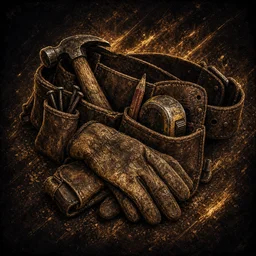
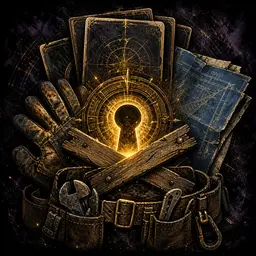
updated destiny images. (#108)

diff --git a/src/game/data/assetManifest.ts b/src/game/data/assetManifest.ts
@@ -54,10 +54,15 @@ import unlockHandSizePerActUrl from "../assets/unlocks/hand-size-per-act.webp";
 import unlockKeywordBonusUrl from "../assets/unlocks/keyword-bonus.webp";
 import unlockMinEnergyUrl from "../assets/unlocks/min-energy.webp";
 import unlockMinLightUrl from "../assets/unlocks/min-light.webp";
+import unlockOtherSprintFreeUrl from "../assets/unlocks/other-sprint-free.webp";
 import unlockPanicResponseUrl from "../assets/unlocks/panic-response.webp";
+import unlockRarityBonusUrl from "../assets/unlocks/rarity-bonus.webp";
 import unlockSecondExplorePushUrl from "../assets/unlocks/second-explore-push.webp";
+import unlockStarterArchivistUrl from "../assets/unlocks/starter-archivist.webp";
 import unlockStarterContractorUrl from "../assets/unlocks/starter-contractor.webp";
 import unlockStarterFootballerUrl from "../assets/unlocks/starter-footballer.webp";
+import unlockStarterHarvesterUrl from "../assets/unlocks/starter-harvester.webp";
+import unlockStarterSurveyorUrl from "../assets/unlocks/starter-surveyor.webp";
 import unlockStrongBarricadesUrl from "../assets/unlocks/strong-barricades.webp";
 import unlockWorldFogBeachPartyUrl from "../assets/unlocks/world-fog-beach-party.webp";
 import unlockWorldWhiteoutParkingGarageUrl from "../assets/unlocks/world-whiteout-parking-garage.webp";
@@ -137,10 +142,15 @@ export const assetManifest: Record<string, string> = {
   "unlock/keyword-bonus": unlockKeywordBonusUrl,
   "unlock/min-energy": unlockMinEnergyUrl,
   "unlock/min-light": unlockMinLightUrl,
+  "unlock/other-sprint-free": unlockOtherSprintFreeUrl,
   "unlock/panic-response": unlockPanicResponseUrl,
+  "unlock/rarity-bonus": unlockRarityBonusUrl,
   "unlock/second-explore-push": unlockSecondExplorePushUrl,
+  "unlock/starter-archivist": unlockStarterArchivistUrl,
   "unlock/starter-contractor": unlockStarterContractorUrl,
   "unlock/starter-footballer": unlockStarterFootballerUrl,
+  "unlock/starter-harvester": unlockStarterHarvesterUrl,
+  "unlock/starter-surveyor": unlockStarterSurveyorUrl,
   "unlock/strong-barricades": unlockStrongBarricadesUrl,
   "unlock/world-fog-beach-party": unlockWorldFogBeachPartyUrl,
   "unlock/world-whiteout-parking-garage": unlockWorldWhiteoutParkingGarageUrl,

diff --git a/src/game/tests/unlockAssetBindings.test.ts b/src/game/tests/unlockAssetBindings.test.ts
@@ -1,0 +1,13 @@
+import { describe, expect, it } from "bun:test";
+import { UNLOCK_CATALOG } from "../../data/unlocks/catalog";
+import { assetManifest } from "../data/assetManifest";
+
+describe("unlock asset bindings", () => {
+  it("binds every catalog unlock icon in assetManifest", () => {
+    const missing = UNLOCK_CATALOG.map((def) => `unlock/${def.id}`).filter(
+      (key) => !(key in assetManifest),
+    );
+
+    expect(missing).toEqual([]);
+  });
+});

diff --git a/.lore/work/design/unlock-art-style.md b/.lore/work/design/unlock-art-style.md
@@ -1,0 +1,167 @@
+---
+title: Unlock art style
+date: 2026-06-25
+status: draft
+tags: [unlocks, art-direction, icons, starter-decks, worlds]
+modules: [unlocks, game-assets]
+related: [.lore/reference/visual-direction.html, .lore/work/design/unlock-catalog.md]
+---
+
+# Unlock art style
+
+## Decision
+
+Unlock icons use three related but distinct visual languages:
+
+1. **World unlocks** are environmental access icons: a sealed object or portal in the world itself. They should feel like a new place has opened.
+2. **Starter unlocks** are memory dossier icons: a retrieved identity, habit, or role crystallized into a deck. They should feel like gaining access to a remembered way of surviving, not like opening a location.
+3. **General unlocks** are relic icons: close-up objects, body cues, or symbolic tools charged with gold light. They should feel like small permanent advantages pulled out of memory.
+
+All three stay inside the project-wide look from `.lore/reference/visual-direction.html`: ink-and-ash linework, distressed surfaces, desaturated dark material, and scarce saturated glow used as intrusion, memory, or access energy.
+
+## Current asset read
+
+The unlock catalog lives at `src/data/unlocks/catalog.json`. Existing unlock art lives at `src/game/assets/unlocks/`, 256x256 WebP.
+
+Existing image coverage:
+
+| Unlock class | Current assets | Current read |
+| --- | --- | --- |
+| World unlocks | `world-fog-beach-party`, `world-whiteout-parking-garage`, `world-the-tidal-archive`, `world-the-ember-orchard`, `world-city-of-sleeping-giants`, plus `bird-building` | A lock, seal, or portal object placed in an environment. More pictorial and scene-like than the other icons. Rounded icon corners on several assets. |
+| Starter deck unlocks | `starter-contractor`, `starter-footballer` | Currently close to general relic art: boots/tools/role objects on a dark background with gold motion. They work, but do not yet distinguish "new starter memory" strongly enough. |
+| General unlocks | `extra-*`, `min-*`, `keyword-bonus`, `hand-size-per-act`, `act-reward`, `first-sprint-free`, `panic-response`, `second-explore-push`, `strong-barricades` | Close-up relic or gesture, almost no environment, black-violet background, sharp gold rim light, sparks, scratches, and occult geometry. |
+
+Known missing icons from the current catalog:
+
+| Unlock id | Name | Recommended class |
+| --- | --- | --- |
+| `rarity-bonus` | Born Lucky | General relic |
+| `other-sprint-free` | Run in Terror | General relic |
+| `starter-harvester` | Harvester of the Ember Orchard | Starter memory dossier |
+| `starter-archivist` | Tidal Archivist | Starter memory dossier |
+| `starter-surveyor` | Giant Surveyor | Starter memory dossier |
+
+Naming note: `bird-building` is mechanically a world unlock even though it does not use the `world-*` filename prefix. Art direction should follow the effect type, not only the filename.
+
+## Shared production rules
+
+Every unlock icon should pass these checks:
+
+- **Format:** square 256x256 WebP, readable at 48x48, no text, no UI badge baked into the image.
+- **Rendering:** painterly graphic novel, high-contrast ink, scraped texture, smoky grain, distressed metal/paper/leather, no clean vector flatness.
+- **Lighting:** one dominant focal glow. Gold is the shared unlock/access color; world-specific hues are secondary accents.
+- **Composition:** centered readable silhouette, strong value contrast, no important detail at the outer 8 percent of the image.
+- **Palette:** dark charcoal, tarnished brass, dirty umber, slate, bruised violet-black. Saturated color is reserved for the focal energy or world-specific intrusion.
+- **Camera:** dramatic close icon framing for general and starter unlocks; small environmental scene framing for world unlocks.
+- **Texture:** surfaces should feel touched, salvaged, or remembered: scratched lock plates, bent cards, worn boots, marked maps, ash, salt, frost, soot.
+- **Continuity:** occult cartography can appear as faint gold rings, compass marks, sigils, alignment lines, or card geometry, but it should support the focal object rather than become decorative noise.
+
+Avoid:
+
+- Clean mobile-game reward icons with glossy gem polish.
+- Neon everywhere.
+- Full character portraits.
+- Literal card fan plus text labels for every starter deck.
+- Generic fantasy runes that do not connect to doors, memory, maps, locks, cards, or survival tools.
+- AI smear where the focal object cannot be identified at small size.
+
+## World unlock style: access seals in place
+
+World unlocks should answer: **what door into this world just opened?**
+
+They are the most environmental of the unlock icons. The viewer should feel a threshold to a place: beach fog, parking-garage snow, flooded archive, ember orchard, giant city, office building. The lock/portal/seal is not an abstract reward token floating in space; it belongs to the world and inherits its atmosphere.
+
+Composition rules:
+
+- Use a locked gate, hanging padlock, sealed door, portal, arch, hatch, or suspended access relic as the foreground anchor.
+- Include enough background to identify the world, even at thumbnail size.
+- Keep the access glow gold-violet or gold-white, with the world hue bleeding around it.
+- Rounded app-icon corners are acceptable and currently help separate world icons from relic icons.
+- The object should feel newly openable, not already conquered. Avoid triumphant landscapes with no lock, no seal, and no threshold.
+
+World-specific hooks:
+
+| Unlock id | Hook |
+| --- | --- |
+| `world-fog-beach-party` | Salt fog, beach clutter, party remnants, lifeguard/beach-access lock, wet lantern glow. |
+| `bird-building` | Office interior or city high-rise, industrial lock, bird silhouettes, stale fluorescent light. |
+| `world-whiteout-parking-garage` | Concrete garage, snow drift, icy lock, sodium-vapor light, tire lines vanishing into white. |
+| `world-the-tidal-archive` | Flooded archive stacks, submerged threshold, barnacled brass seal, teal water glow. |
+| `world-the-ember-orchard` | Charred orchard, ember fruit light, black soil, heat shimmer, red-orange intrusion behind the seal. |
+| `world-city-of-sleeping-giants` | Monumental sleeping stone/giant shapes, city scale, huge lock or keyhole dwarfed by environment. |
+
+## Starter unlock style: memory dossiers
+
+Starter unlocks should answer: **what remembered identity did the player recover?**
+
+These are not worlds and not generic stat relics. A starter deck changes the player's opening hand and role, so the icon should feel like a sealed memory file being granted: a compact arrangement of role objects, a few ghosted cards, and a gold memory aperture. The core metaphor is **"access to a practiced way of surviving."**
+
+Use this visual grammar for all `starter-*` icons:
+
+- A **memory dossier**: layered cards, a worn photograph, a tagged case file, or a compact kit of role objects.
+- A **gold memory aperture**: keyhole, circular astrolabe ring, or glowing card-slot opening through the center.
+- A **role artifact** in sharp silhouette: tool belt, cleats, pruning knife, archive stamp, contour map.
+- A **small deck signal**: 2-4 card backs or translucent card rectangles, partially tucked behind the artifact. They should imply deck access without becoming a generic card fan.
+- A **faint identity trace**, not a portrait: glove marks, footprints, hand silhouette, stamped seal, old photo edge, field notes. No full heroic character.
+- A **color accent by starter source**: the accent identifies the memory's origin, while the gold aperture says it is unlocked.
+
+Starter icons should be more structured than general relics and less environmental than world unlocks. They can include a shallow background texture, but not a full scene. The dossier shape should make them recognizable as a family at a glance.
+
+Starter-specific briefs:
+
+| Unlock id | Name | Focal concept | Accent |
+| --- | --- | --- | --- |
+| `starter-contractor` | Builder's Instinct | Tool belt, work gloves, folded blueprint/card backs, small barricade planks crossing the aperture. | Dusty brass, worksite umber. |
+| `starter-footballer` | Athlete's Instinct | Muddy cleats over ghosted sprint cards, sideline chalk arcs, aperture like a stadium light/keyhole. | Warm gold with motion streaks. |
+| `starter-harvester` | Harvester of the Ember Orchard | Pruning hook or harvesting glove over scorched dossier cards, ember fruit glow inside the memory aperture. | Ember orange-red. |
+| `starter-archivist` | Tidal Archivist | Water-stained catalog cards, brass archive stamp, ribbon markers, aperture refracted through teal water. | Deep teal, tarnished brass. |
+| `starter-surveyor` | Giant Surveyor | Contour map, compass, measuring cord, three dossier cards aligned like terrain strata. | Stone grey, vein-gold, muted moss. |
+
+Prompt skeleton for future generation:
+
+> 256x256 square icon, Shattered Worlds unlock art, dark ink-and-ash graphic novel rendering, distressed paper and tarnished brass, centered memory dossier of [role artifacts] with 3 ghosted card backs tucked behind it, glowing gold keyhole/astrolabe memory aperture at center, [starter accent] subtle glow, scratched texture, smoky black-violet background, high contrast, readable at small size, no text, no character portrait, no clean vector style.
+
+## General unlock style: charged relics
+
+General unlocks should answer: **what permanent advantage did memory leave behind?**
+
+They stay close, symbolic, and object-forward. Unlike world unlocks, they should not describe a place. Unlike starter unlocks, they should not imply an alternate deck identity. A single relic or gesture is enough.
+
+Composition rules:
+
+- One object or gesture dominates the frame.
+- Background is abstract dark smoke, scratched void, or faint occult geometry.
+- Gold light draws the silhouette and explains the effect.
+- The icon can be physically impossible if it reads cleanly: pulse line in a void, cards held by light, an eye with a gold slash, hands catching lightning.
+- Do not add dossier card layers unless the unlock actually concerns deck/starter identity.
+
+Missing general-icon briefs:
+
+| Unlock id | Name | Focal concept |
+| --- | --- | --- |
+| `rarity-bonus` | Born Lucky | Tarnished coin, bone charm, or compass needle caught inside a gold probability ring; small fractured stars around it. |
+| `other-sprint-free` | Run in Terror | Multiple shoes or repeated motion shadows vanishing into dark, with a torn Panic-card silhouette dragged behind the glow. |
+
+## Category contrast checklist
+
+Before approving a new unlock image, ask:
+
+| Question | World unlock | Starter unlock | General unlock |
+| --- | --- | --- | --- |
+| Does it show a place? | Yes, enough to identify the world. | No, only shallow memory texture. | No. |
+| Does it show a threshold? | Yes, lock/portal/seal in environment. | Yes, memory aperture or deck access slot. | Optional, usually no. |
+| Does it show role/deck identity? | No. | Yes. | No, unless the specific mechanic is card-related. |
+| Is the focal object readable at 48x48? | Lock/seal/portal. | Dossier plus role artifact. | Single relic/gesture. |
+| What emotion should it land? | A new world is reachable. | A remembered self is available. | A useful edge has been recovered. |
+
+## Approval rubric
+
+An icon is ready when:
+
+- It is identifiable at 48x48 without the label.
+- It belongs to the correct family even before reading the filename.
+- It uses gold/access light consistently.
+- It does not flatten into generic fantasy item art.
+- It leaves the interface room to add purchase, locked, active, or selected states outside the image.
+- For starter unlocks, it clearly reads as memory/deck access and not as a world key.
+
